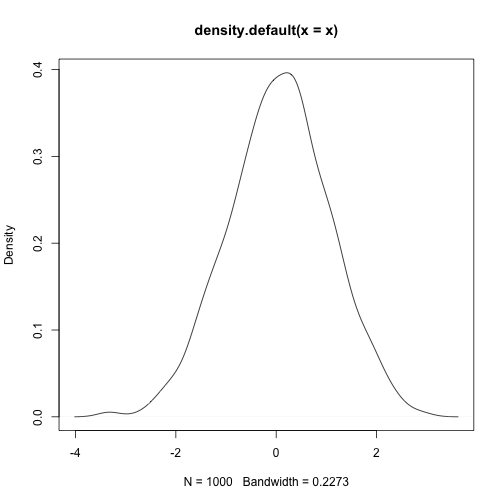
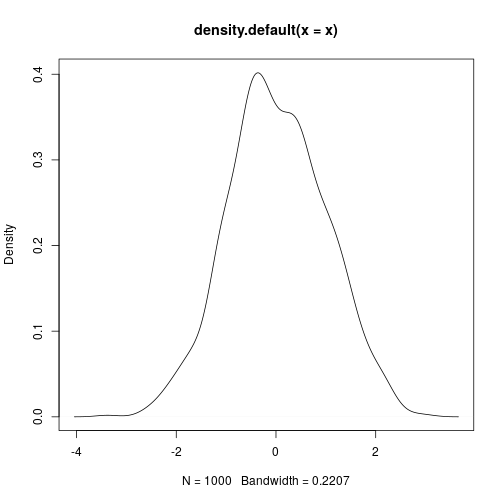
more small changes

diff --git a/_episodes/02-literate-programming.md b/_episodes/02-literate-programming.md
@@ -245,7 +245,7 @@ plot(density(x))
 head(x)
 </code></pre>
 
-<pre><code>## [1] -0.5418609  0.3332679 -0.4541914 -0.1069715  0.9231318 -0.3871725
+<pre><code>## [1] -0.2569155  0.9110832  0.6181185  0.4479316 -0.2443289  0.4163217
 </code></pre>
 
 <p><code>knitr</code> offers a lot of control over representing different
@@ -254,7 +254,7 @@ computed on the fly.</p>
 
 <p>The mean \(\bar{x} = \frac{1}{n} \sum_{i=1}^{n} x_{i}\) of the
 1000 random variates we generated is
-0.006.</p>
+-0.012.</p>
 
 <p>This figure is computed on-the-fly as well. No more
 copy-paste, including for figures:</p>
@@ -262,7 +262,7 @@ copy-paste, including for figures:</p>
 <pre><code class="r">plot(density(x))
 </code></pre>
 
[2 lines of base64/hex data omitted]
 
 
 

diff --git a/_episodes/03-explore-knitr.md b/_episodes/03-explore-knitr.md
@@ -42,7 +42,7 @@ In this lesson we are going to use `RStudio` to combine `R` code, markdown, and 
 
 Open [countryPick4.Rmd](https://github.com/datacarpentry/rr-literate-programming/blob/gh-pages/files/lit-prog/countryPick4.Rmd). This is a report exploring population size of four countries.
 
-Save this document with a new filename. The filename should end in `.Rmd` or `.Rmd`. Use what you have learned from file naming to give an appropriate new name to this report.
+Save this document with a new filename. The filename should end in `.Rmd`. Use what you have learned from file naming to give an appropriate new name to this report.
 
 **Goal**: Make the report unique by choosing four new countries. Explore a few countries and try to find a combination that shows you something unique about the data. Read through report while running each of the code chunks.
 

diff --git a/_episodes/rmd_example.md b/_episodes/rmd_example.md
@@ -7,7 +7,7 @@ head(x)
 ```
 
 ```
-## [1]  0.6570134 -0.6976483 -0.3968126  0.8415000  0.1931341  1.0834019
+## [1] -0.03515028  1.28489303 -0.10394216 -0.03024353 -0.17735876  0.07880816
 ```
 
 `knitr` offers a lot of control over representing different
@@ -16,7 +16,7 @@ computed on the fly.
 
 The mean $\bar{x} = \frac{1}{n} \sum_{i=1}^{n} x_{i}$ of the
 1000 random variates we generated is
--0.005.
+0.03.
 
 This figure is computed on-the-fly as well. No more
 copy-paste, including for figures:

diff --git a/_episodes_rmd/rmd_example.md b/_episodes_rmd/rmd_example.md
@@ -7,7 +7,7 @@ head(x)
 ```
 
 ```
-## [1] -0.5418609  0.3332679 -0.4541914 -0.1069715  0.9231318 -0.3871725
+## [1] -0.2569155  0.9110832  0.6181185  0.4479316 -0.2443289  0.4163217
 ```
 
 `knitr` offers a lot of control over representing different
@@ -16,7 +16,7 @@ computed on the fly.
 
 The mean $\bar{x} = \frac{1}{n} \sum_{i=1}^{n} x_{i}$ of the
 1000 random variates we generated is
-0.006.
+-0.012.
 
 This figure is computed on-the-fly as well. No more
 copy-paste, including for figures:
